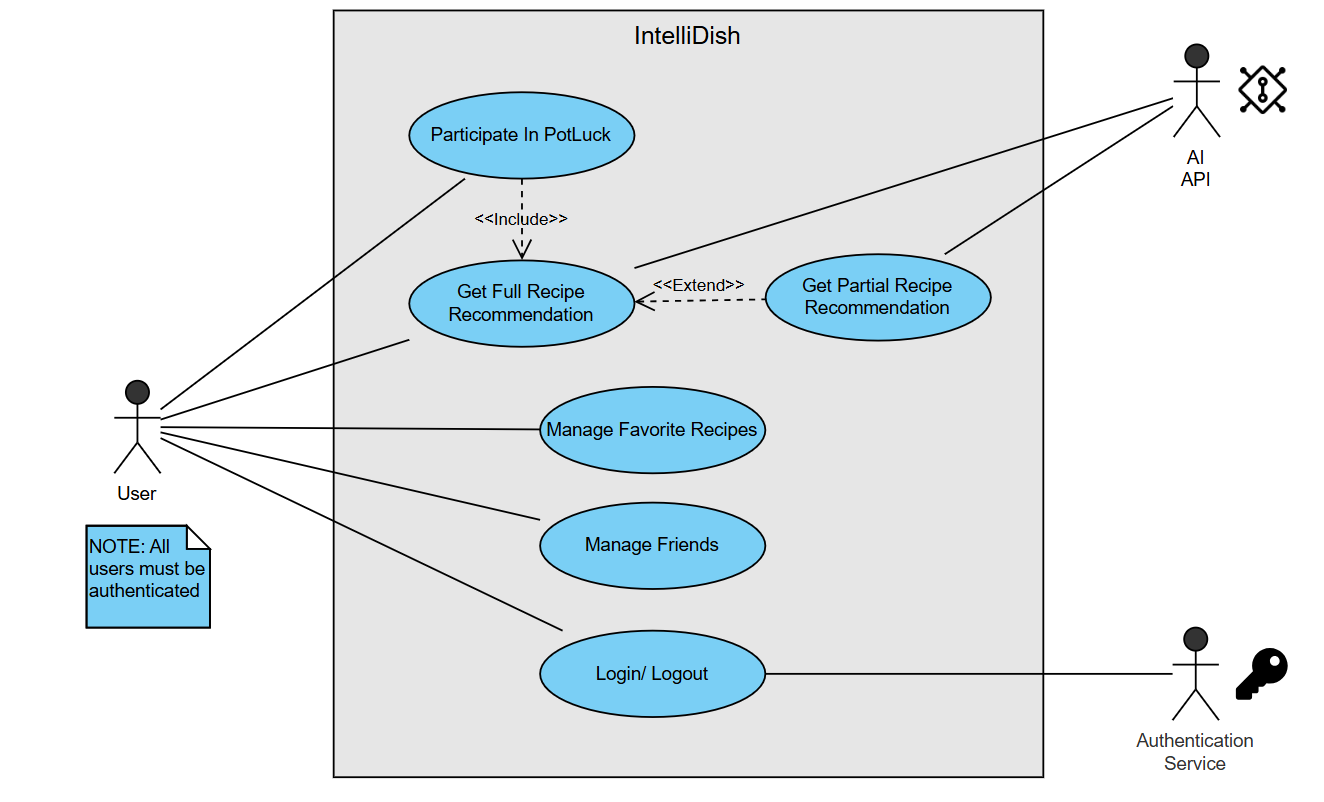
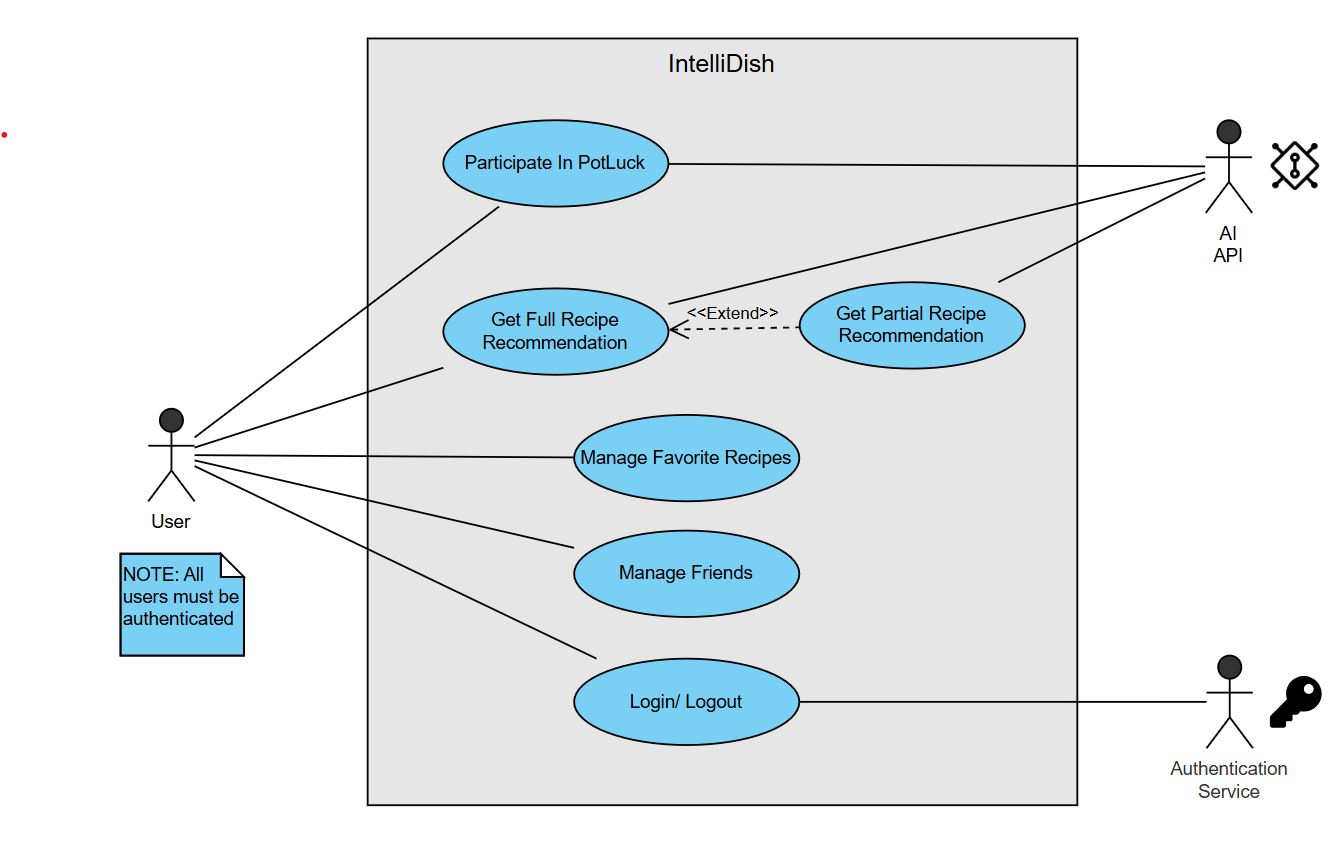
simplified use case diagram

diff --git a/documentation/M3_Requirements_and_Design.md b/documentation/M3_Requirements_and_Design.md
@@ -97,7 +97,7 @@ For users like busy university students and employees (who often lack the time, 
 
 4. **Participate In PotLuck**:
     - **Description**: Users can collaboratively input available ingredients as a group for recipe recommendations.
-    - **Primary actor(s)**: User (multiple).
+    - **Primary actor(s)**: User, AI API.
     - **Main success scenario**:
         - **1**. A user starts a PotLuck and invites his/ her friends to create a group.
         - **2**. The users collectively provide a list of available ingredients and cuisine preferences to IntelliDish. This could be done asynchronously, and users can continuous add and remove their ingredient contributions.
